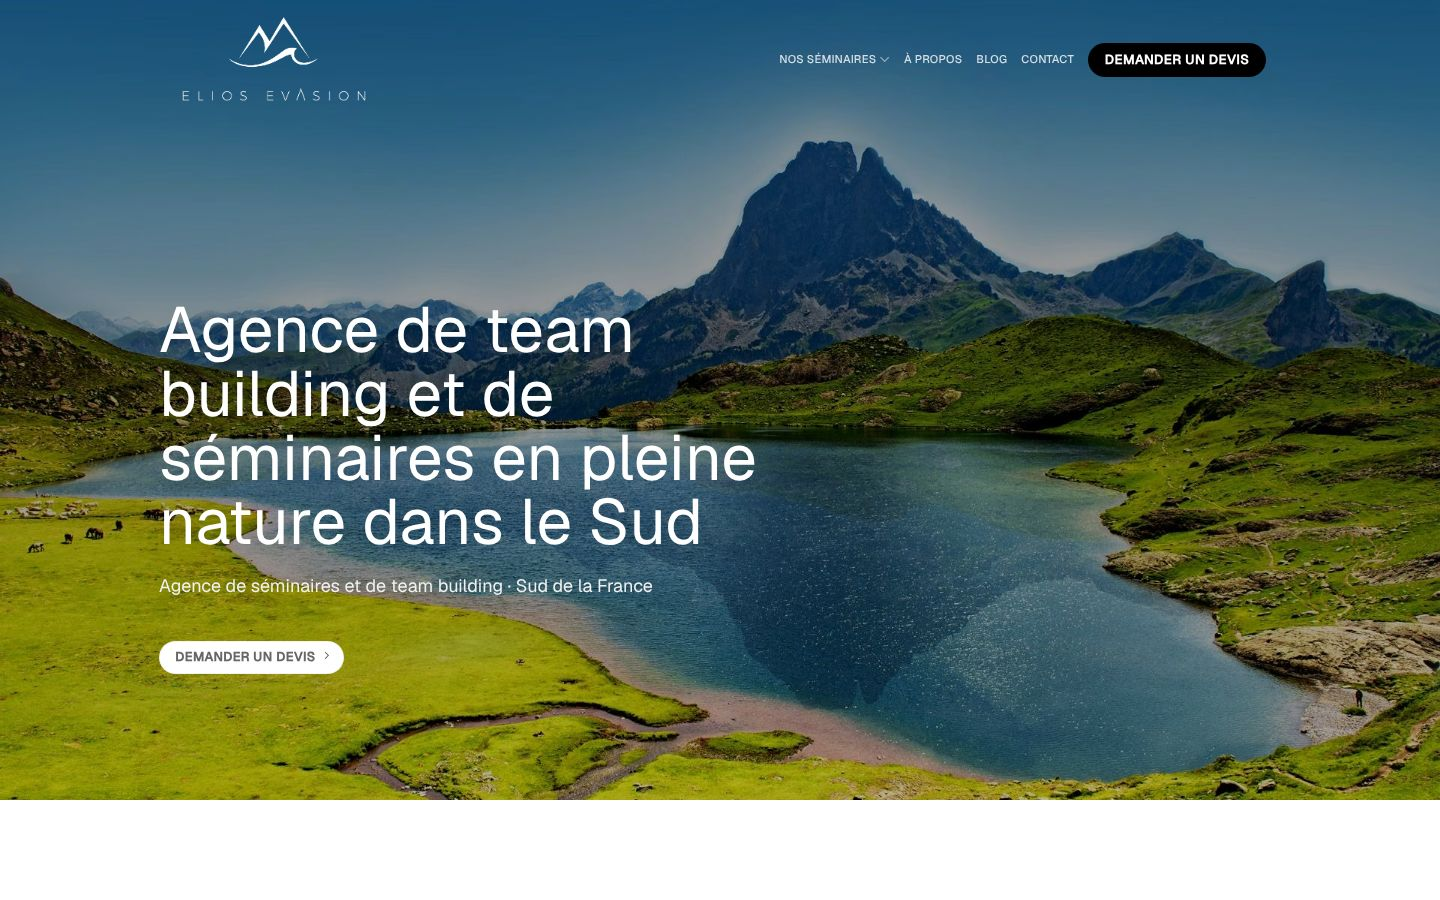
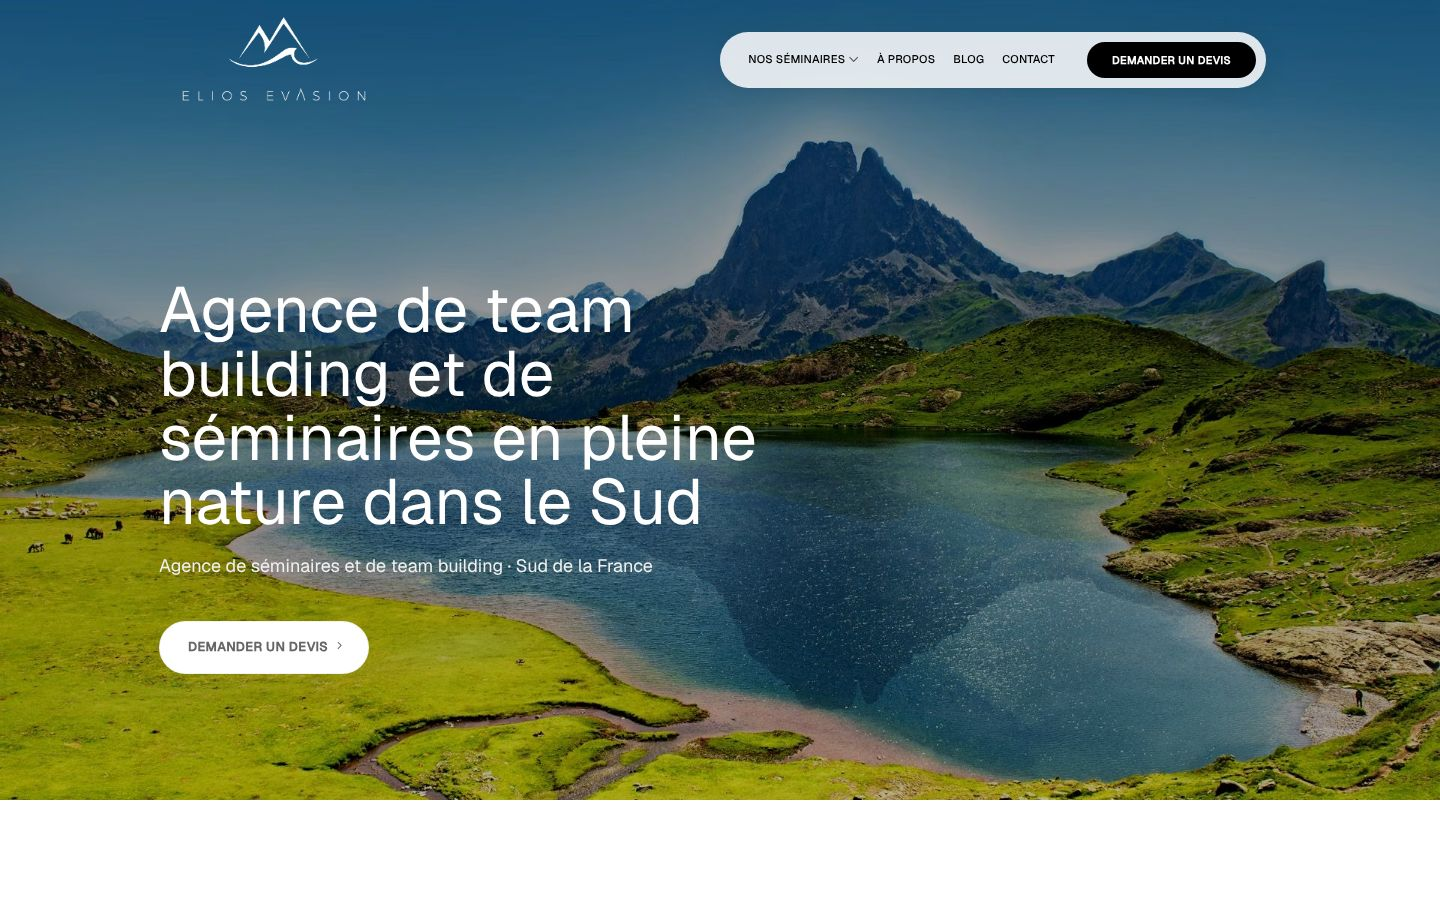
Accueil : boutons plus hauts, pilule aérée, témoignages centrés, header collé sans bandeau (import n° 4)
Claude-Session: https://claude.ai/code/session_01JfUKqhuFk9sBzgWcwSgXTR

Changed region(s): [[0.0938, 0.3111, 0.5312, 0.7467], [0.5, 0.0311, 0.875, 0.1244]]

diff --git a/elios-evasion/dev/css/flatsome-custom-css.css b/elios-evasion/dev/css/flatsome-custom-css.css
@@ -1,4 +1,8 @@
-/* Menu pilule (header, ordinateur uniquement). Autorisé par le client le 30/10/2026. */
+/* Menu pilule et header collant sans bandeau. Autorisé par le client le 30/10/2026. */
+/* Header collé : pas d'ombre (le fond est rendu transparent par l'option header_bg). */
+.header-wrapper.stuck {
+  box-shadow: none;
+}
 @media (min-width: 850px) {
   .header-main .flex-right .header-nav-main {
     background-color: rgba(255, 255, 255, 0.85);
@@ -6,7 +10,13 @@
     backdrop-filter: blur(12px);
     border-radius: 99px;
     box-shadow: 0 4px 24px rgba(0, 0, 0, 0.08);
-    padding: 8px 8px 8px 24px;
+    padding: 8px 10px 8px 28px;
+  }
+  .header-main .flex-right .header-nav-main > li {
+    margin: 0 18px 0 0;
+  }
+  .header-main .flex-right .header-nav-main > li.header-button-1 {
+    margin: 0 0 0 14px;
   }
   .header-main .flex-right .header-nav-main > li > a,
   .header-main .flex-right .header-nav-main > li > a:hover {
@@ -14,6 +24,9 @@
   }
   .header-main .flex-right .header-nav-main > li > a:before {
     background-color: #000000;
+  }
+  .header-main .flex-right .header-nav-main .header-button .button {
+    padding: 4px 24px;
   }
 }
 /* Encarts arrondis à 16 px : toute image ou tout banner placé dans une colonne. Autorisé par le client le 30/10/2026. */

diff --git a/elios-evasion/dev/css/menu-pilule.css b/elios-evasion/dev/css/menu-pilule.css
@@ -1,4 +1,8 @@
-/* Menu pilule (header, ordinateur uniquement). Autorisé par le client le 30/10/2026. */
+/* Menu pilule et header collant sans bandeau. Autorisé par le client le 30/10/2026. */
+/* Header collé : pas d'ombre (le fond est rendu transparent par l'option header_bg). */
+.header-wrapper.stuck {
+  box-shadow: none;
+}
 @media (min-width: 850px) {
   .header-main .flex-right .header-nav-main {
     background-color: rgba(255, 255, 255, 0.85);
@@ -6,7 +10,13 @@
     backdrop-filter: blur(12px);
     border-radius: 99px;
     box-shadow: 0 4px 24px rgba(0, 0, 0, 0.08);
-    padding: 8px 8px 8px 24px;
+    padding: 8px 10px 8px 28px;
+  }
+  .header-main .flex-right .header-nav-main > li {
+    margin: 0 18px 0 0;
+  }
+  .header-main .flex-right .header-nav-main > li.header-button-1 {
+    margin: 0 0 0 14px;
   }
   .header-main .flex-right .header-nav-main > li > a,
   .header-main .flex-right .header-nav-main > li > a:hover {
@@ -14,5 +24,8 @@
   }
   .header-main .flex-right .header-nav-main > li > a:before {
     background-color: #000000;
+  }
+  .header-main .flex-right .header-nav-main .header-button .button {
+    padding: 4px 24px;
   }
 }

diff --git a/elios-evasion/dev/00-consignes-dev.md b/elios-evasion/dev/00-consignes-dev.md
@@ -7,7 +7,7 @@
 1. **Pas de CSS personnalisé.**
    - Rien dans « CSS personnalisé » (Flatsome > Avancé ou Customizer > CSS additionnel), rien dans un `style.css` de thème enfant, aucun attribut `style=""` écrit à la main dans les contenus, aucune classe inventée.
    - Seuls sont permis les **options Flatsome** (Customizer / theme mods) et les **attributs natifs des éléments UX Builder** (shortcodes).
-   - **Exceptions autorisées par le client le 30/10/2026**, et elles seules : le **menu pilule** du header (`css/menu-pilule.css`) et les **encarts arrondis à 16 px**, c'est-à-dire toute image ou tout banner placé dans une colonne (`css/encarts-arrondis.css`, sans classe). Les deux sont posés ensemble dans *Flatsome > Avancé > Custom CSS* par l'import n° 3 (`css/flatsome-custom-css.css`).
+   - **Exceptions autorisées par le client le 30/10/2026**, et elles seules : le **menu pilule** du header, y compris la suppression de l'ombre du header collé (`css/menu-pilule.css`) et les **encarts arrondis à 16 px**, c'est-à-dire toute image ou tout banner placé dans une colonne (`css/encarts-arrondis.css`, sans classe). Les deux sont posés ensemble dans *Flatsome > Avancé > Custom CSS* par l'import n° 3 (`css/flatsome-custom-css.css`).
    - Les classes utilitaires **fournies par Flatsome** (ex. `form-flat`, `flex-row`, `button primary` dans les modèles Contact Form 7 du thème) sont permises, car elles font partie du thème.
 2. **Zéro hallucination.**
    - On n'utilise que ce qui est **vérifié dans le code source de Flatsome 3.20.12** (voir `reference-flatsome/`) ou dans la documentation officielle.
@@ -78,7 +78,7 @@ Tous les réglages passent par les options Flatsome. Chaque valeur est notée ic
 - **Couleurs** : seulement `primary`, `secondary`, `success`, `alert`, ainsi que le blanc et le noir. Dans les attributs (`color`, `bg_color`…), on utilise les **mots-clés de couleur Flatsome** (`primary`, `secondary`, `white`…) quand l'attribut les accepte, sinon le code hexadécimal **exact** de la palette.
 - **Espacements de section** : une seule échelle (ex. `padding="60px"` pour une section standard, `padding="30px"` pour une section serrée), notée ici une fois choisie.
 - **Titres de section** : toujours le même élément `[title]`, avec le même `style`.
-- **Boutons** (3 variantes, imposées par la maquette) : plein `color="primary"` ; blanc sur photo `color="white"` ; lien souligné `style="underline"`. Les deux derniers ont une flèche (`icon="icon-angle-right" icon_pos="right"`). Aucune autre variante.
+- **Boutons** (3 variantes, imposées par la maquette ; boutons pleins avec `padding="10px 28px"`, retour du client) : plein `color="primary"` ; blanc sur photo `color="white"` ; lien souligné `style="underline"`. Les deux derniers ont une flèche (`icon="icon-angle-right" icon_pos="right"`). Aucune autre variante.
 - **Bandeau de haut de page** : le même `[ux_banner]` (hauteur, superposition, alignement) sur toutes les pages d'un même type.
 
 ## 5. Gabarits de page (correspondance avec les commentaires `<!-- [BLOC] -->` de la rédaction)
@@ -184,3 +184,4 @@ Tous les réglages passent par les options Flatsome. Chaque valeur est notée ic
 | 30/10/2026 | Hero refait selon la hiérarchie de la maquette (H1, sous-titre, un seul bouton, bloc calé à gauche et en bas), avec la photo fournie par le client (média 47, pic du Midi d'Ossau). |
 | 30/10/2026 | Client : images uniquement en `[ux_image]` (ou `[ux_banner]` avec texte), encarts arrondis à 16 px ; CSS perso autorisé pour le **menu pilule uniquement** (import n° 3). Point bloquant : `[ux_image]` n'a pas d'attribut d'arrondi, et `bg_radius` de colonne ne découpe pas son contenu (pas d'`overflow:hidden` dans le thème). Question posée au client. |
 | 30/10/2026 | Client : CSS global sans classe pour arrondir à 16 px les images et banners placés dans une colonne (`.col-inner .img-inner, .col-inner .banner`). Photos reconstruites en `[ux_image]` et `[ux_banner]` (CTA compris). Import n° 3 = menu pilule + encarts + bouton du header `small` + `nav_spacing` `xlarge`. |
+| 30/10/2026 | Retours du client : boutons pleins plus hauts (`padding="10px 28px"`), pilule plus aérée, témoignages entièrement centrés (`pos="center"`) avec flèches à l'extérieur (`nav_pos="outside"`), header collé sans bandeau (`header_bg` transparent et ombre supprimée). Import n° 4. |

diff --git a/elios-evasion/dev/pages/accueil-options-globales.md b/elios-evasion/dev/pages/accueil-options-globales.md
@@ -92,3 +92,15 @@ Fichier : `../imports/flatsome-import-3-css-perso.txt`.
 | `nav_spacing` | `xlarge` (choix vérifiés : `xsmall`, `small`, `''`, `medium`, `large`, `xlarge`) |
 
 ⚠ L'import **remplace** tout le champ *Custom CSS* : pour modifier ce CSS plus tard, on édite les fichiers de `../css/` et on régénère l'import. On n'écrit pas directement dans l'admin.
+
+## Import n° 4 : ajustements du 30/10 (retours du client)
+
+Fichier : `../imports/flatsome-import-4-ajustements.txt`. Il **remplace** le n° 3 : il reprend ses clés et en ajoute une.
+
+| Clé | Valeur | Retour du client |
+|---|---|---|
+| `html_custom_css` | `../css/flatsome-custom-css.css` : liens plus espacés dans la pilule (18 px), bouton décollé du bord droit (marge de 14 px, fond de pilule de 10 px à droite), bouton du header plus haut (`padding: 4px 24px`), **plus d'ombre sur le header collé** (`.header-wrapper.stuck{box-shadow:none}`), encarts à 16 px inchangés | « Plus d'espace entre les liens », « bouton trop collé à droite », « bandeau blanc au scroll » |
+| `header_bg` | `rgba(255,255,255,0)` | Le fond du header collé vient de cette option (`.header-bg-color`) : transparent, il n'y a plus de bandeau. La pilule garde son propre fond |
+| `header_button_1_size`, `nav_spacing` | `small`, `xlarge` | inchangés |
+
+Note : avec un header transparent, sur les autres pages (header non transparent), le logo couleur et la pilule flottent au-dessus du contenu. C'est le comportement voulu par la maquette.
